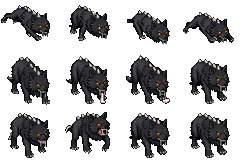
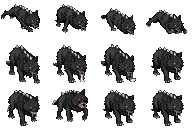
Mniejsze wilki i wargi; soczyste ataki Wilka Alfy i wodza goblinów
Wilki x0.78, wargi x0.8 (cienie i wysokość trafienia razem z nimi), Alfa bez zmian. Bossowie: przyczajenie
przed atakiem, wyrzut sylwetki, powidoki w skoku i szarży, fale uderzeniowe, pęknięcia ziemi, odłamki,
ślady pazurów, mocniejsze trzęsienie i dźwięki.

diff --git a/tools/forest_sheets.py b/tools/forest_sheets.py
@@ -26,6 +26,9 @@ DIR = "south-east"
 ## PixelLab narysował stan "Siedzi" goblina na całe płótno, tak wysoko jak stojącego (38 vs 36 px) - siedzący
 ## wychodził większy niż po wstaniu. Sylwetkę siedzenia zmniejszamy, zostawiając ją opartą o ziemię.
 SIT_SCALE = 0.75
+## Stworzenia mniejsze niż wychodzą z PixelLab (mnożnik do SCALE): wilki i wargi zlewały się w stadzie w jedną
+## plamę, były większe od goblinów. Wilk Alfa zostaje duży - ma się wyróżniać.
+SIZE = {"wolf": 0.78, "warg": 0.8}
 
 
 def _open(path):
@@ -74,11 +77,12 @@ def build(name, rows, out_name=None):
     sheet = Image.new("RGBA", (cell_w * columns, cell_h * len(rows)))
     for r, c, img, feet in placed:
         sheet.alpha_composite(img, (int(c * cell_w + half - img.width / 2.0), int(r * cell_h + feet_y - feet)))
-    small = shrink(sheet, cell_w, cell_h)
+    scale = SCALE * SIZE.get(out_name or name, 1.0)
+    small = shrink(sheet, cell_w, cell_h, scale)
     os.makedirs(OUT, exist_ok=True)
     small.save(os.path.join(OUT, (out_name or name) + ".png"))
-    w, h = round(cell_w * SCALE), round(cell_h * SCALE)
-    return {"cell": [w, h], "offset_y": -(round(feet_y * SCALE) - h / 2.0)}
+    w, h = round(cell_w * scale), round(cell_h * scale)
+    return {"cell": [w, h], "offset_y": -(round(feet_y * scale) - h / 2.0)}
 
 
 def _sitting(img):
@@ -91,10 +95,10 @@ def _sitting(img):
     return out
 
 
-def shrink(sheet, cell_w, cell_h):
+def shrink(sheet, cell_w, cell_h, scale=SCALE):
     """Zmniejszenie komórka po komórce (hero_sheets._shrink działa na kwadratowych komórkach)."""
     cols, rows = sheet.width // cell_w, sheet.height // cell_h
-    out_w, out_h = round(cell_w * SCALE), round(cell_h * SCALE)
+    out_w, out_h = round(cell_w * scale), round(cell_h * scale)
     out = Image.new("RGBA", (out_w * cols, out_h * rows))
     for r in range(rows):
         for c in range(cols):

diff --git a/tools/forest_scenes.py b/tools/forest_scenes.py
@@ -17,8 +17,8 @@ SCENES = {
     "goblin_archer": ("goblin_archer", 4, 2, (1.6, 1.0), 11.0, "hurt_height"),
     "goblin_brute": ("goblin_brute", 4, 2, (2.6, 1.4), 18.0, "hurt_height"),
     "goblin_chief": ("goblin_chief", 4, 2, (3.4, 1.8), None, None),
-    "wolf": ("wolf", 4, 3, (2.4, 1.2), 9.0, "hurt_height"),
-    "warg": ("warg", 4, 3, (3.4, 1.6), 14.0, "hurt_height"),
+    "wolf": ("wolf", 4, 3, (1.9, 1.0), 7.0, "hurt_height"),
+    "warg": ("warg", 4, 3, (2.7, 1.3), 11.0, "hurt_height"),
     "alpha_wolf": ("alpha_wolf", 4, 2, (4.0, 1.9), None, None),
     "deer": ("deer", 4, 2, (2.6, 1.3), 16.0, "body_offset"),
     "roe": ("roe", 4, 2, (2.2, 1.1), 12.0, "body_offset"),
